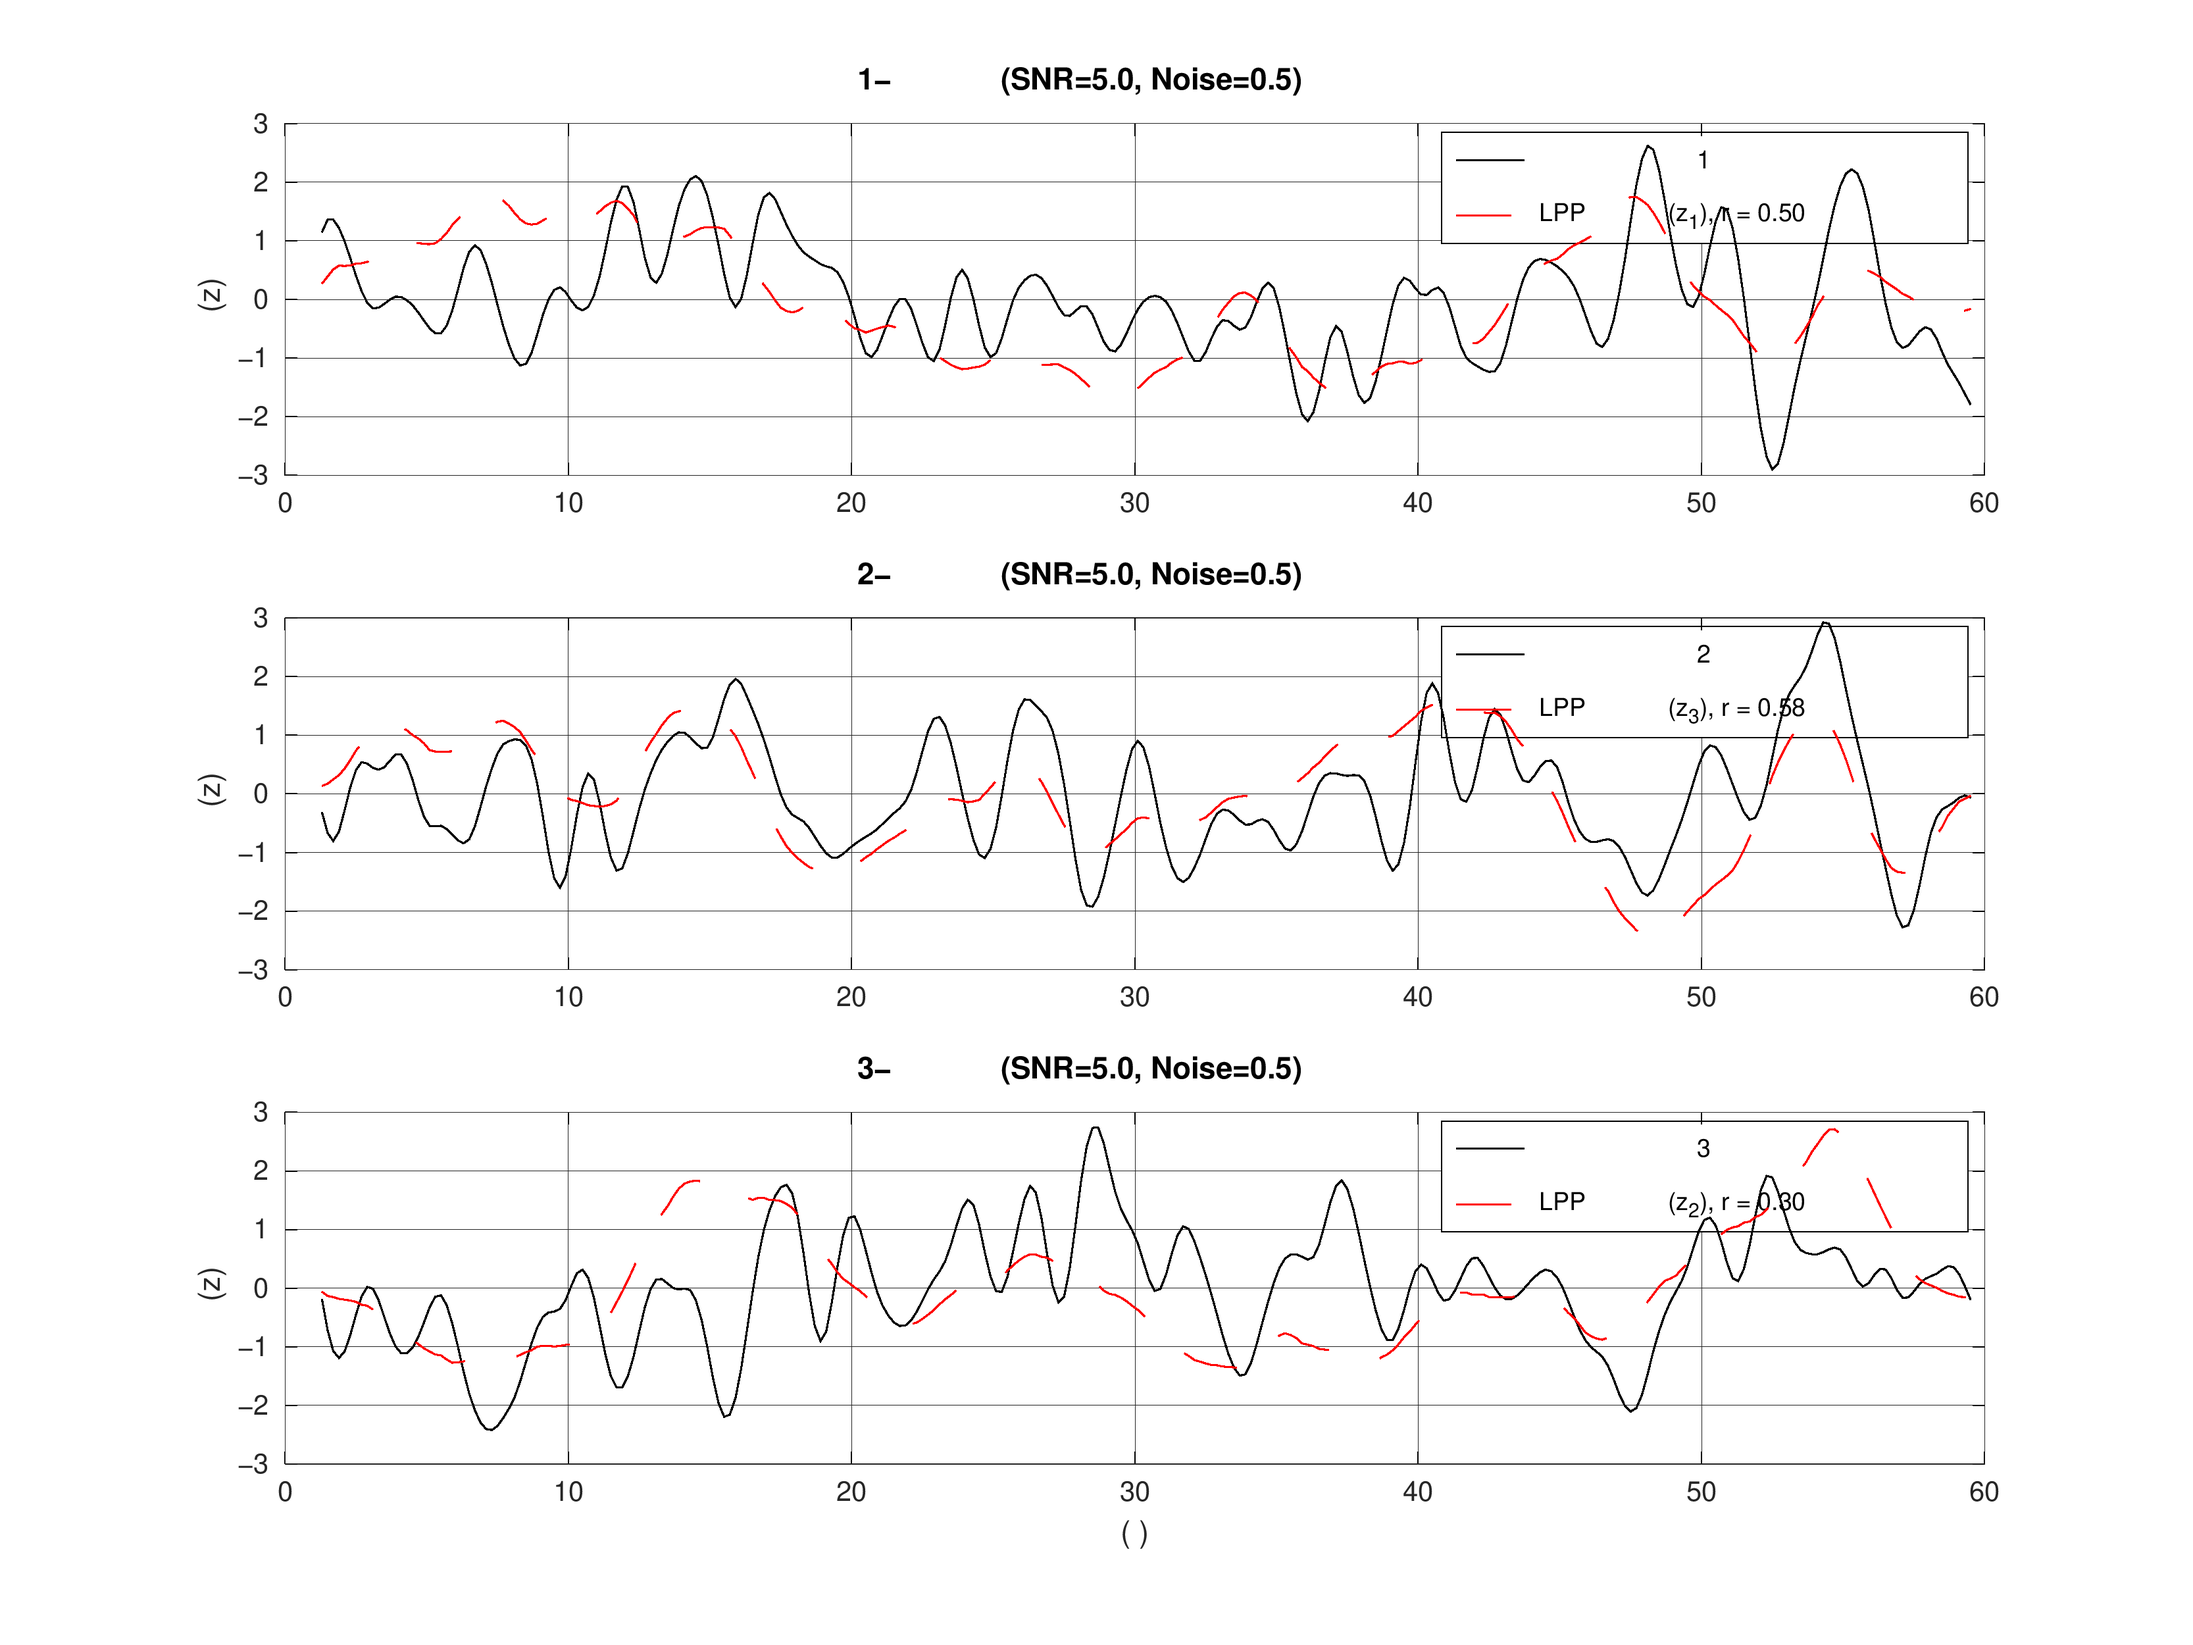
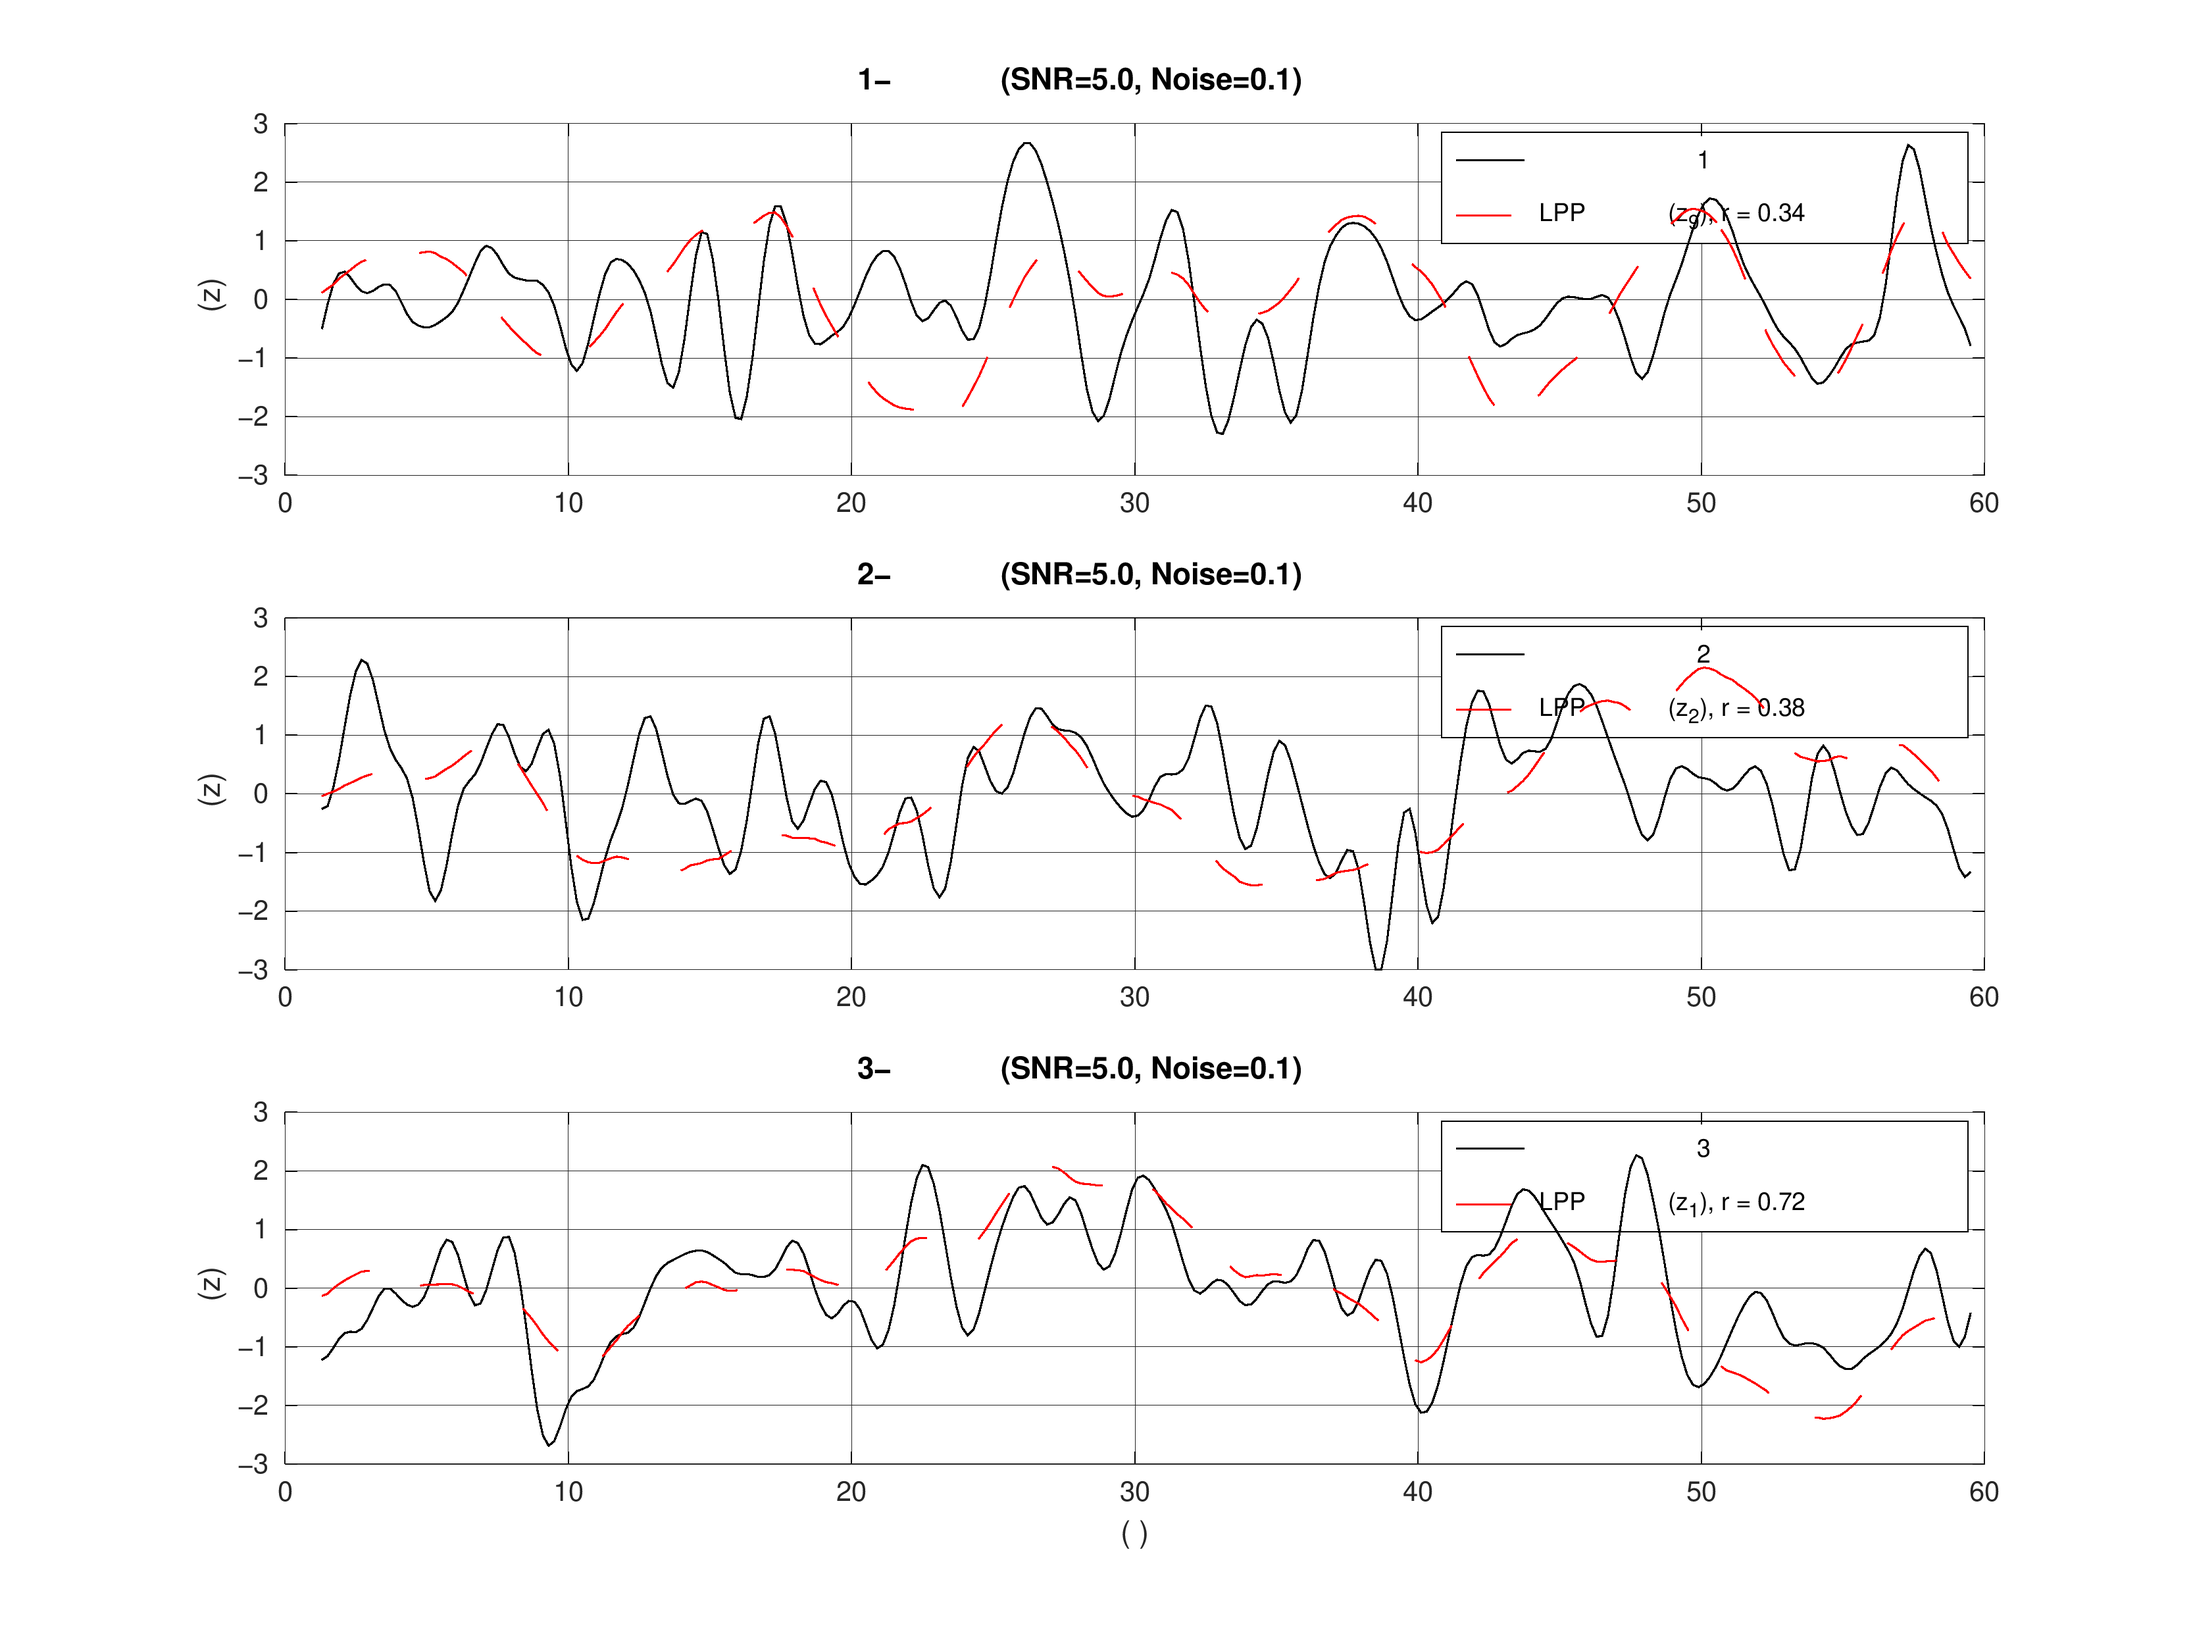
Increase number of subjects to 20 for cross-subject simulation

diff --git a/Cross-Subject-Rhythm/examples/example_cross_subject.m b/Cross-Subject-Rhythm/examples/example_cross_subject.m
@@ -10,11 +10,11 @@ addpath(fullfile(pwd, '..', 'src'));
 Fs = 250;               % Частота дискретизации, Гц
 Ts = 60;                % Длительность записи, с (увеличено для более длинной проверки)
 flanker = 1;            % Отступы по краям для устранения краевых эффектов
-N_subj = 10;            % Количество субъектов (например, 10 участников)
+N_subj = 20;            % Количество субъектов (например, 20 участников)
 N_distr = 3;            % Количество независимых целевых индуцированных источников (огибающих)
 N_bg = 10;              % Количество фоновых шумящих источников
 SNR = 5;                % Дисперсия целевых огибающих
-env_noise = 0.5;        % Уровень индивидуального шума огибающей
+env_noise = 0.1;        % Уровень индивидуального шума огибающей (уменьшен)
 
 % Создаем синтетическую матрицу Leadfield (G)
 % Для примера возьмем 30 сенсоров и 100 возможных диполей в мозге (по 3 оси на каждый)
